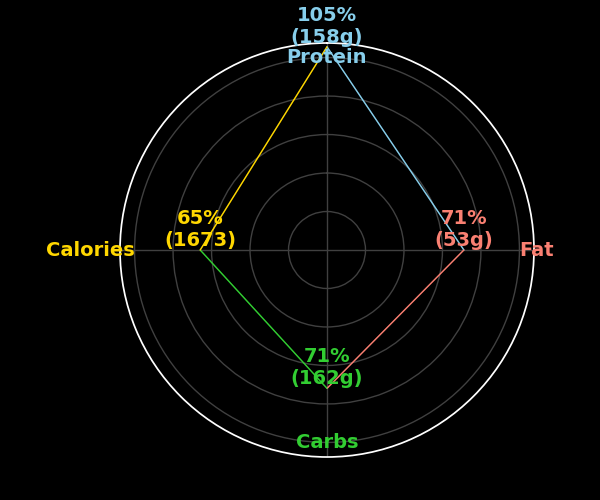
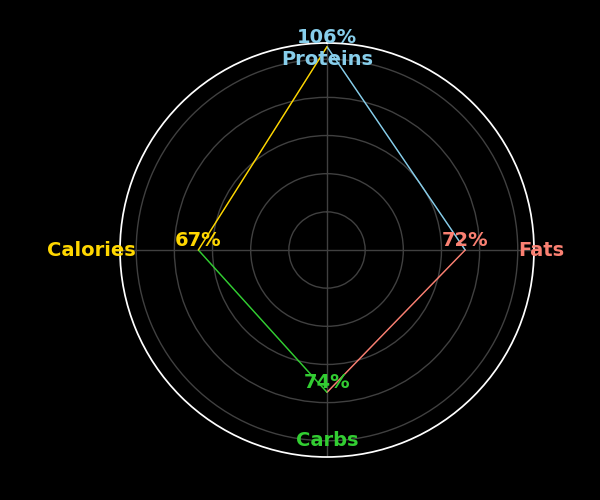
automatic clipboard and install scripts (on shell)

diff --git a/utils.py b/utils.py
@@ -1,5 +1,59 @@
+import pyperclip
 import pandas as pd
+import csv
+import re
+import os
 
+def verify_csv_line(clipboard_content):
+    # Verify the format "date,int/float,int/float,int/float,int/float"
+    pattern = r"^\d{4}-\d{2}-\d{2},-?\d+(\.\d+)?,-?\d+(\.\d+)?,-?\d+(\.\d+)?,-?\d+(\.\d+)?$"
+    return re.match(pattern, clipboard_content)
+
+def process_csv_from_clipboard(csv_file_path):
+    # 1. Take what is on the clipboard
+    clipboard_content = pyperclip.paste()
+    print('Clipboard content:', clipboard_content)
+
+    # 2. Verify the clipboard content
+    if not verify_csv_line(clipboard_content):
+        print("Clipboard content is not in the required CSV format.")
+        return
+    
+    # 3. Open the CSV file
+    if not os.path.exists(csv_file_path):
+        print("CSV file does not exist.")
+        return
+
+    # Read all lines from the CSV
+    with open(csv_file_path, 'r') as f:
+        lines = list(csv.reader(f))
+
+    # Remove empty or header lines from the end
+    while lines and not lines[-1]:
+        lines.pop()
+
+    # 4. Check the last line's first column (date)
+    last_line = lines[-1]
+    last_date = last_line[0]
+    clipboard_list = clean_elements(clipboard_content.split(','))
+    print('Clipboard list:', clipboard_list)
+    clipboard_date = clipboard_list[0]
+
+    # 5 & 6. Replace or append the line
+    if last_date == clipboard_date:
+        lines[-1] = clipboard_list
+    else:
+        lines.append(clipboard_list)
+
+    # Write back to the CSV
+    with open(csv_file_path, 'w', newline='') as f:
+        writer = csv.writer(f)
+        writer.writerows(lines)
+        # close the file
+        f.close()
+
+def clean_elements(clipboard_list):
+    return [re.sub(r'[^0-9\-,.]', '', element) for element in clipboard_list]
 
 def calculate_averages(data, recommended_protein, recommended_fat, recommended_carbs, recommended_calories, n=None, m=None):
     average_protein = data['Proteins'][n:m].mean() / recommended_protein
@@ -7,7 +61,9 @@ def calculate_averages(data, recommended_protein, recommended_fat, recommended_c
     average_carbs = data['Carbs'][n:m].mean() / recommended_carbs
     average_calories = data['Calories'][n:m].mean() / recommended_calories
     return average_protein, average_fat, average_carbs, average_calories
-def read_nutrients(file_path):
+
+def read_nutrients(file_path): 
+    process_csv_from_clipboard(file_path)
     df = pd.read_csv(file_path)
     return df
 

diff --git a/install.py b/install.py
@@ -1,0 +1,40 @@
+import subprocess
+import sys
+import pkg_resources
+import os
+
+def install_dependencies():
+    # Check if Python and pip are installed
+    try:
+        python_version = subprocess.check_output(['python', '--version'])
+        pip_version = subprocess.check_output(['pip', '--version'])
+    except Exception as e:
+        print(f"Error: {e}")
+        print("Make sure Python and pip are installed.")
+        sys.exit(1)
+
+    # Read requirements.txt and install packages
+    try:
+        # check if requirements.txt exists and continue if it doesn't
+        if not os.path.exists('requirements.txt'):
+            print("requirements.txt does not exist.")
+            return
+        
+        with open('requirements.txt', 'r') as f:
+            required_packages = f.read().splitlines()
+
+        installed_packages = {pkg.key for pkg in pkg_resources.working_set}
+        to_install = [pkg for pkg in required_packages if pkg.split('==')[0].lower() not in installed_packages]
+        print('Installed packages:', installed_packages)
+        print('Required packages:', required_packages)
+        print('To install:', to_install)
+
+        if to_install:
+            subprocess.check_call([sys.executable, '-m', 'pip', 'install', *to_install])
+    except Exception as e:
+        print(f"Error: {e}")
+        print("Failed to install one or more packages.")
+        sys.exit(1)
+
+if __name__ == '__main__':
+    install_dependencies()

diff --git a/spider.py b/spider.py
@@ -1,4 +1,3 @@
-import pandas as pd
 import matplotlib.pyplot as plt
 import numpy as np
 from utils import calculate_recommended_values_v2, calculate_averages
@@ -23,8 +22,8 @@ def spider(info, data):
         n = None
         m = None
     
-    print(n)
-    print(m)
+    # print(n)
+    # print(m)
     
     # Calculate recommended daily intake for each nutrient
     recommended_protein, recommended_fat, recommended_carbs, recommended_calories = calculate_recommended_values_v2(info)
@@ -73,7 +72,7 @@ def spider(info, data):
     ax.set_theta_direction(-1)
 
     # Draw axis lines for each angle and label.
-    labels = ['Protein', 'Fat', 'Carbs', 'Calories']
+    labels = ['Proteins', 'Fats', 'Carbs', 'Calories']
     ax.set_thetagrids(np.degrees(angles[:-1]), [])
     # Add labels with different colors
     # Add labels with different colors

diff --git a/graph.py b/graph.py
@@ -33,7 +33,7 @@ def plot_individual_chart(nutrient, recommended_nutrient, average_nutrient, titl
 def plot_chart(df, ax, nutrient, recommended_nutrient, average_nutrient, title, color1, dates, individual=False):
     # Plot actual nutrient
     sns.lineplot(x='Days', y=nutrient, data=df, label=nutrient, linewidth=2.5, color=color1, ax=ax)
-    print(df[average_nutrient][0])
+    # print(df[average_nutrient][0])
     # Plot recommended nutrient
     sns.lineplot(x='Days', y=recommended_nutrient, data=df, label=recommended_nutrient, linestyle='dashed', linewidth=2.5, color=color1, ax=ax)
     

diff --git a/draw.py b/draw.py
@@ -3,9 +3,8 @@ from chart import chart
 from spider import spider
 from graph import graph
 
-
-info = read_personal_info('/Users/avi/Documents/personal code/nutrients/info.txt')
 data = read_nutrients('/Users/avi/Documents/personal code/nutrients/nutrients.csv')
+info = read_personal_info('/Users/avi/Documents/personal code/nutrients/info.txt')
+# chart(info, data)
 graph(info, data)
-chart(info, data)
 spider(info, data)
